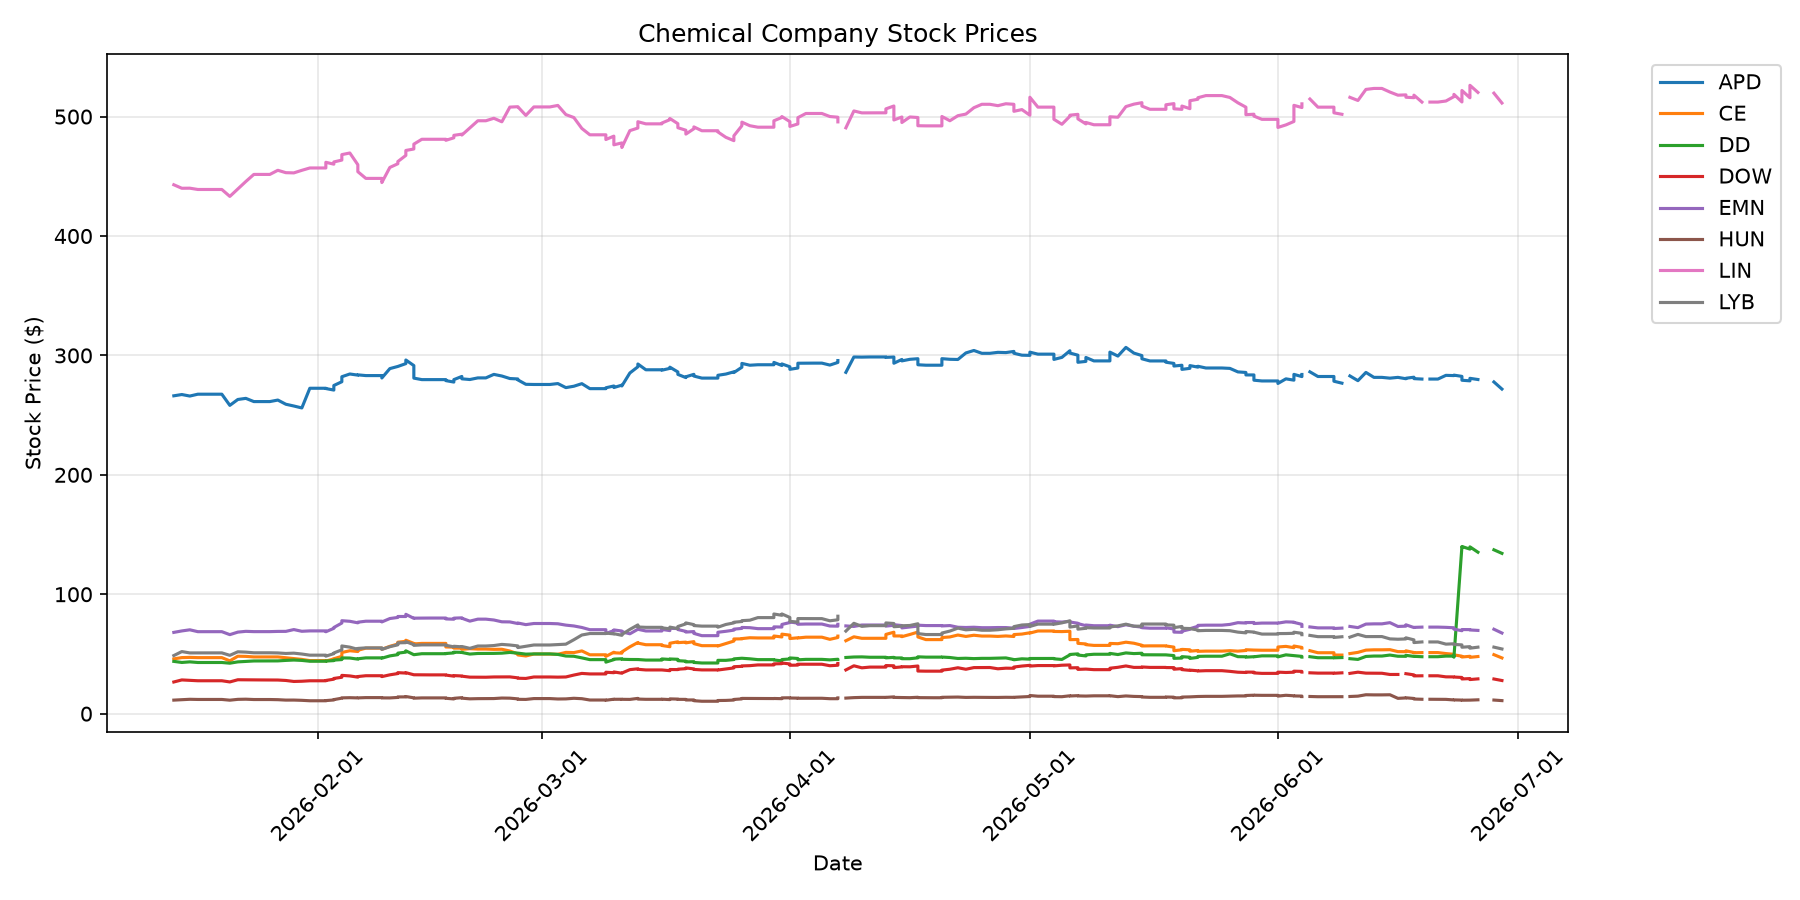
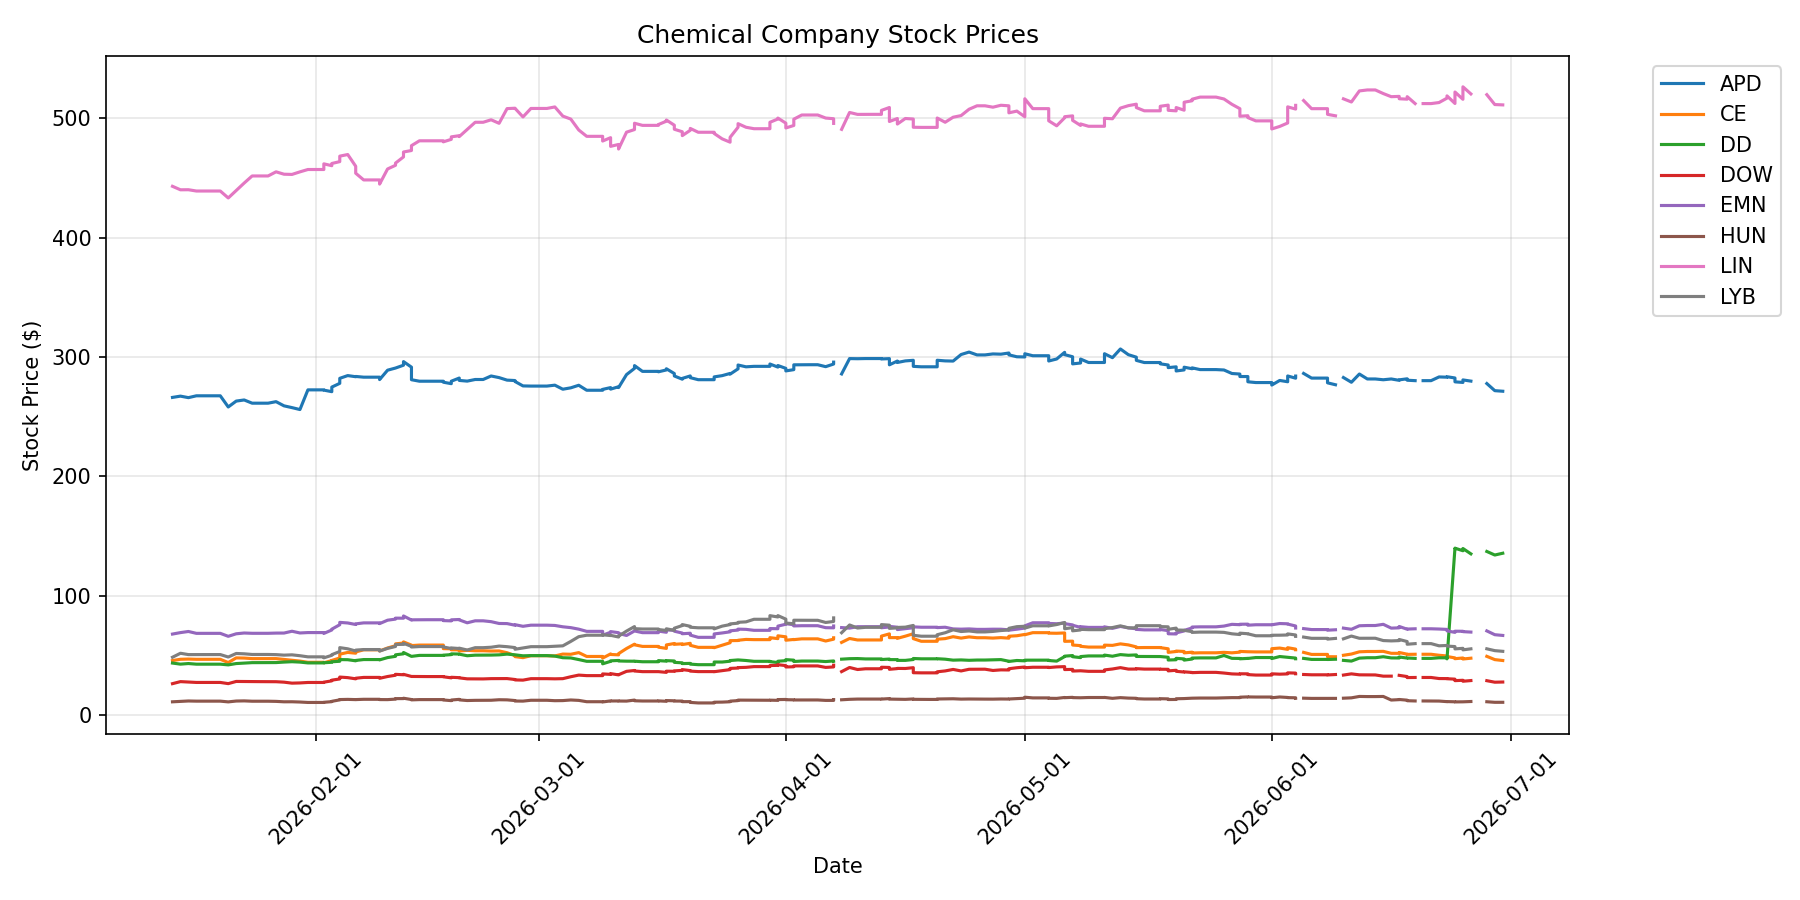
Daily price update: 2026-06-30

diff --git a/README.md b/README.md
@@ -2,29 +2,29 @@
 
 Automated daily tracking of chemical commodity prices and chemical company stocks.
 
-## Latest Prices (Updated: 2026-06-29)
+## Latest Prices (Updated: 2026-06-30)
 
 ### Energy Commodities
 
 | Commodity | Price | Change (24h) | Unit |
 |-----------|-------|--------------|------|
-| WTI Crude Oil | $70.48 | +0.00 (+0.00%) | $/barrel |
-| Brent Crude Oil | $73.66 | +0.00 (+0.00%) | $/barrel |
+| WTI Crude Oil | $70.75 | +0.00 (+0.00%) | $/barrel |
+| Brent Crude Oil | $73.15 | +0.00 (+0.00%) | $/barrel |
 | Natural Gas | $3.18 | +0.00 (+0.00%) | $/MMBtu |
-| Heating Oil | $3.18 | +0.00 (+0.00%) | $/gallon |
+| Heating Oil | $3.33 | +0.00 (+0.00%) | $/gallon |
 
 ### Chemical Company Stocks
 
 | Company | Ticker | Price | Change (24h) |
 |---------|--------|-------|--------------|
-| Dow Inc. | DOW | $27.77 | -1.27 (-4.37%) |
-| LyondellBasell | LYB | $54.19 | -1.54 (-2.76%) |
-| DuPont | DD | $134.24 | -2.98 (-2.17%) |
-| Air Products | APD | $271.83 | -5.96 (-2.14%) |
-| Linde | LIN | $511.35 | -8.27 (-1.59%) |
-| Eastman Chemical | EMN | $67.54 | -3.17 (-4.48%) |
-| Celanese | CE | $46.68 | -2.74 (-5.54%) |
-| Huntsman | HUN | $10.94 | -0.47 (-4.16%) |
+| Dow Inc. | DOW | $27.92 | -1.12 (-3.86%) |
+| LyondellBasell | LYB | $53.62 | -2.11 (-3.79%) |
+| DuPont | DD | $135.74 | -1.48 (-1.08%) |
+| Air Products | APD | $271.35 | -6.44 (-2.32%) |
+| Linde | LIN | $511.06 | -8.56 (-1.65%) |
+| Eastman Chemical | EMN | $66.92 | -3.79 (-5.36%) |
+| Celanese | CE | $45.93 | -3.49 (-7.06%) |
+| Huntsman | HUN | $10.95 | -0.46 (-4.03%) |
 
 ## Data Sources
 

diff --git a/logs/update_log.md b/logs/update_log.md
@@ -278,3 +278,4 @@ Daily updates to the chemical engineering data repository.
 - **2026-06-28 00:00:05**: Updated 4 energy prices, 8 stocks, 0 FRED series
 - **2026-06-28 14:32:04**: Updated 4 energy prices, 8 stocks, 0 FRED series
 - **2026-06-29 15:06:30**: Updated 4 energy prices, 8 stocks, 0 FRED series
+- **2026-06-30 00:00:25**: Updated 4 energy prices, 8 stocks, 0 FRED series
